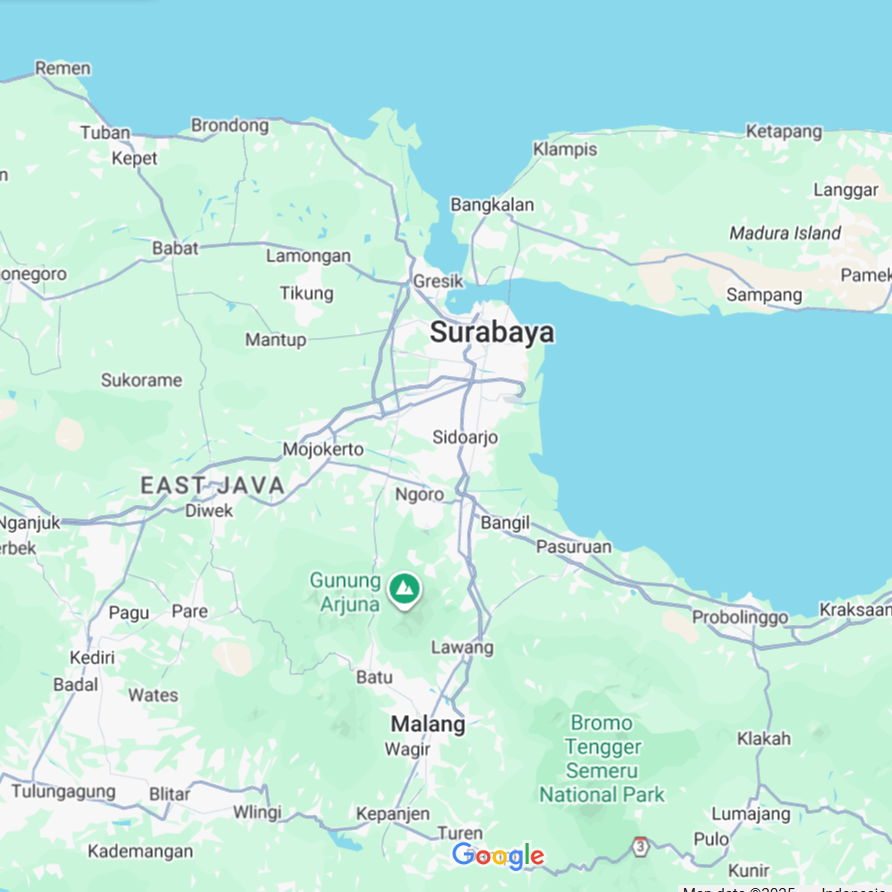
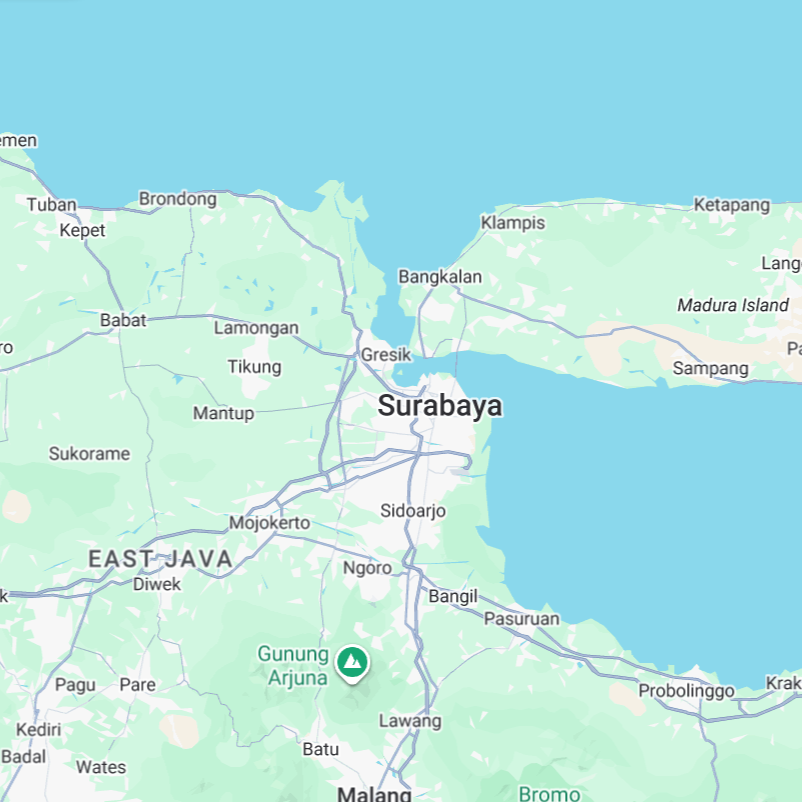
fix: map card ui

diff --git a/src/sections/About.tsx b/src/sections/About.tsx
@@ -5,6 +5,7 @@ import { ToolboxItems } from "../components/ToolboxItems";
 import bookImage from "../assets/images/book-cover.png";
 import mapImage from "../assets/images/map.png";
 import winkMemoji from "../assets/images/wink-memoji.png";
+import smileMemoji from "../assets/images/smile-memoji.png";
 import Image from "next/image";
 import {
   SiAndroidstudio,
@@ -198,9 +199,11 @@ export const AboutSection = () => {
             </div>
           </Card>
 
-          <Card>
-            <Image src={mapImage} alt="Map" />
-            <Image src={winkMemoji} alt="Wink Memoji" />
+          <Card className="h-[320px] p-0 relative">
+            <Image src={mapImage} alt="Map" className="object-cover w-full h-full" />
+            <div className="absolute top-1/2 left-1/2 -translate-x-1/2 -translate-y-1/2 size-20 rounded-full bg-gradient-to-r from-emerald-400 to-sky-400 after:content-[''] after:absolute after:inset-0 after:outline-2 after:outline-offset-2 after:rounded-full after:outline-gray-950/30 after:bg-gradient-to-r after:from-emerald-400 after:to-sky-400 after:-z-10">
+              <Image src={smileMemoji} alt="Smile Memoji" className="size-20" />
+            </div>
           </Card>
         </div>
       </div>
